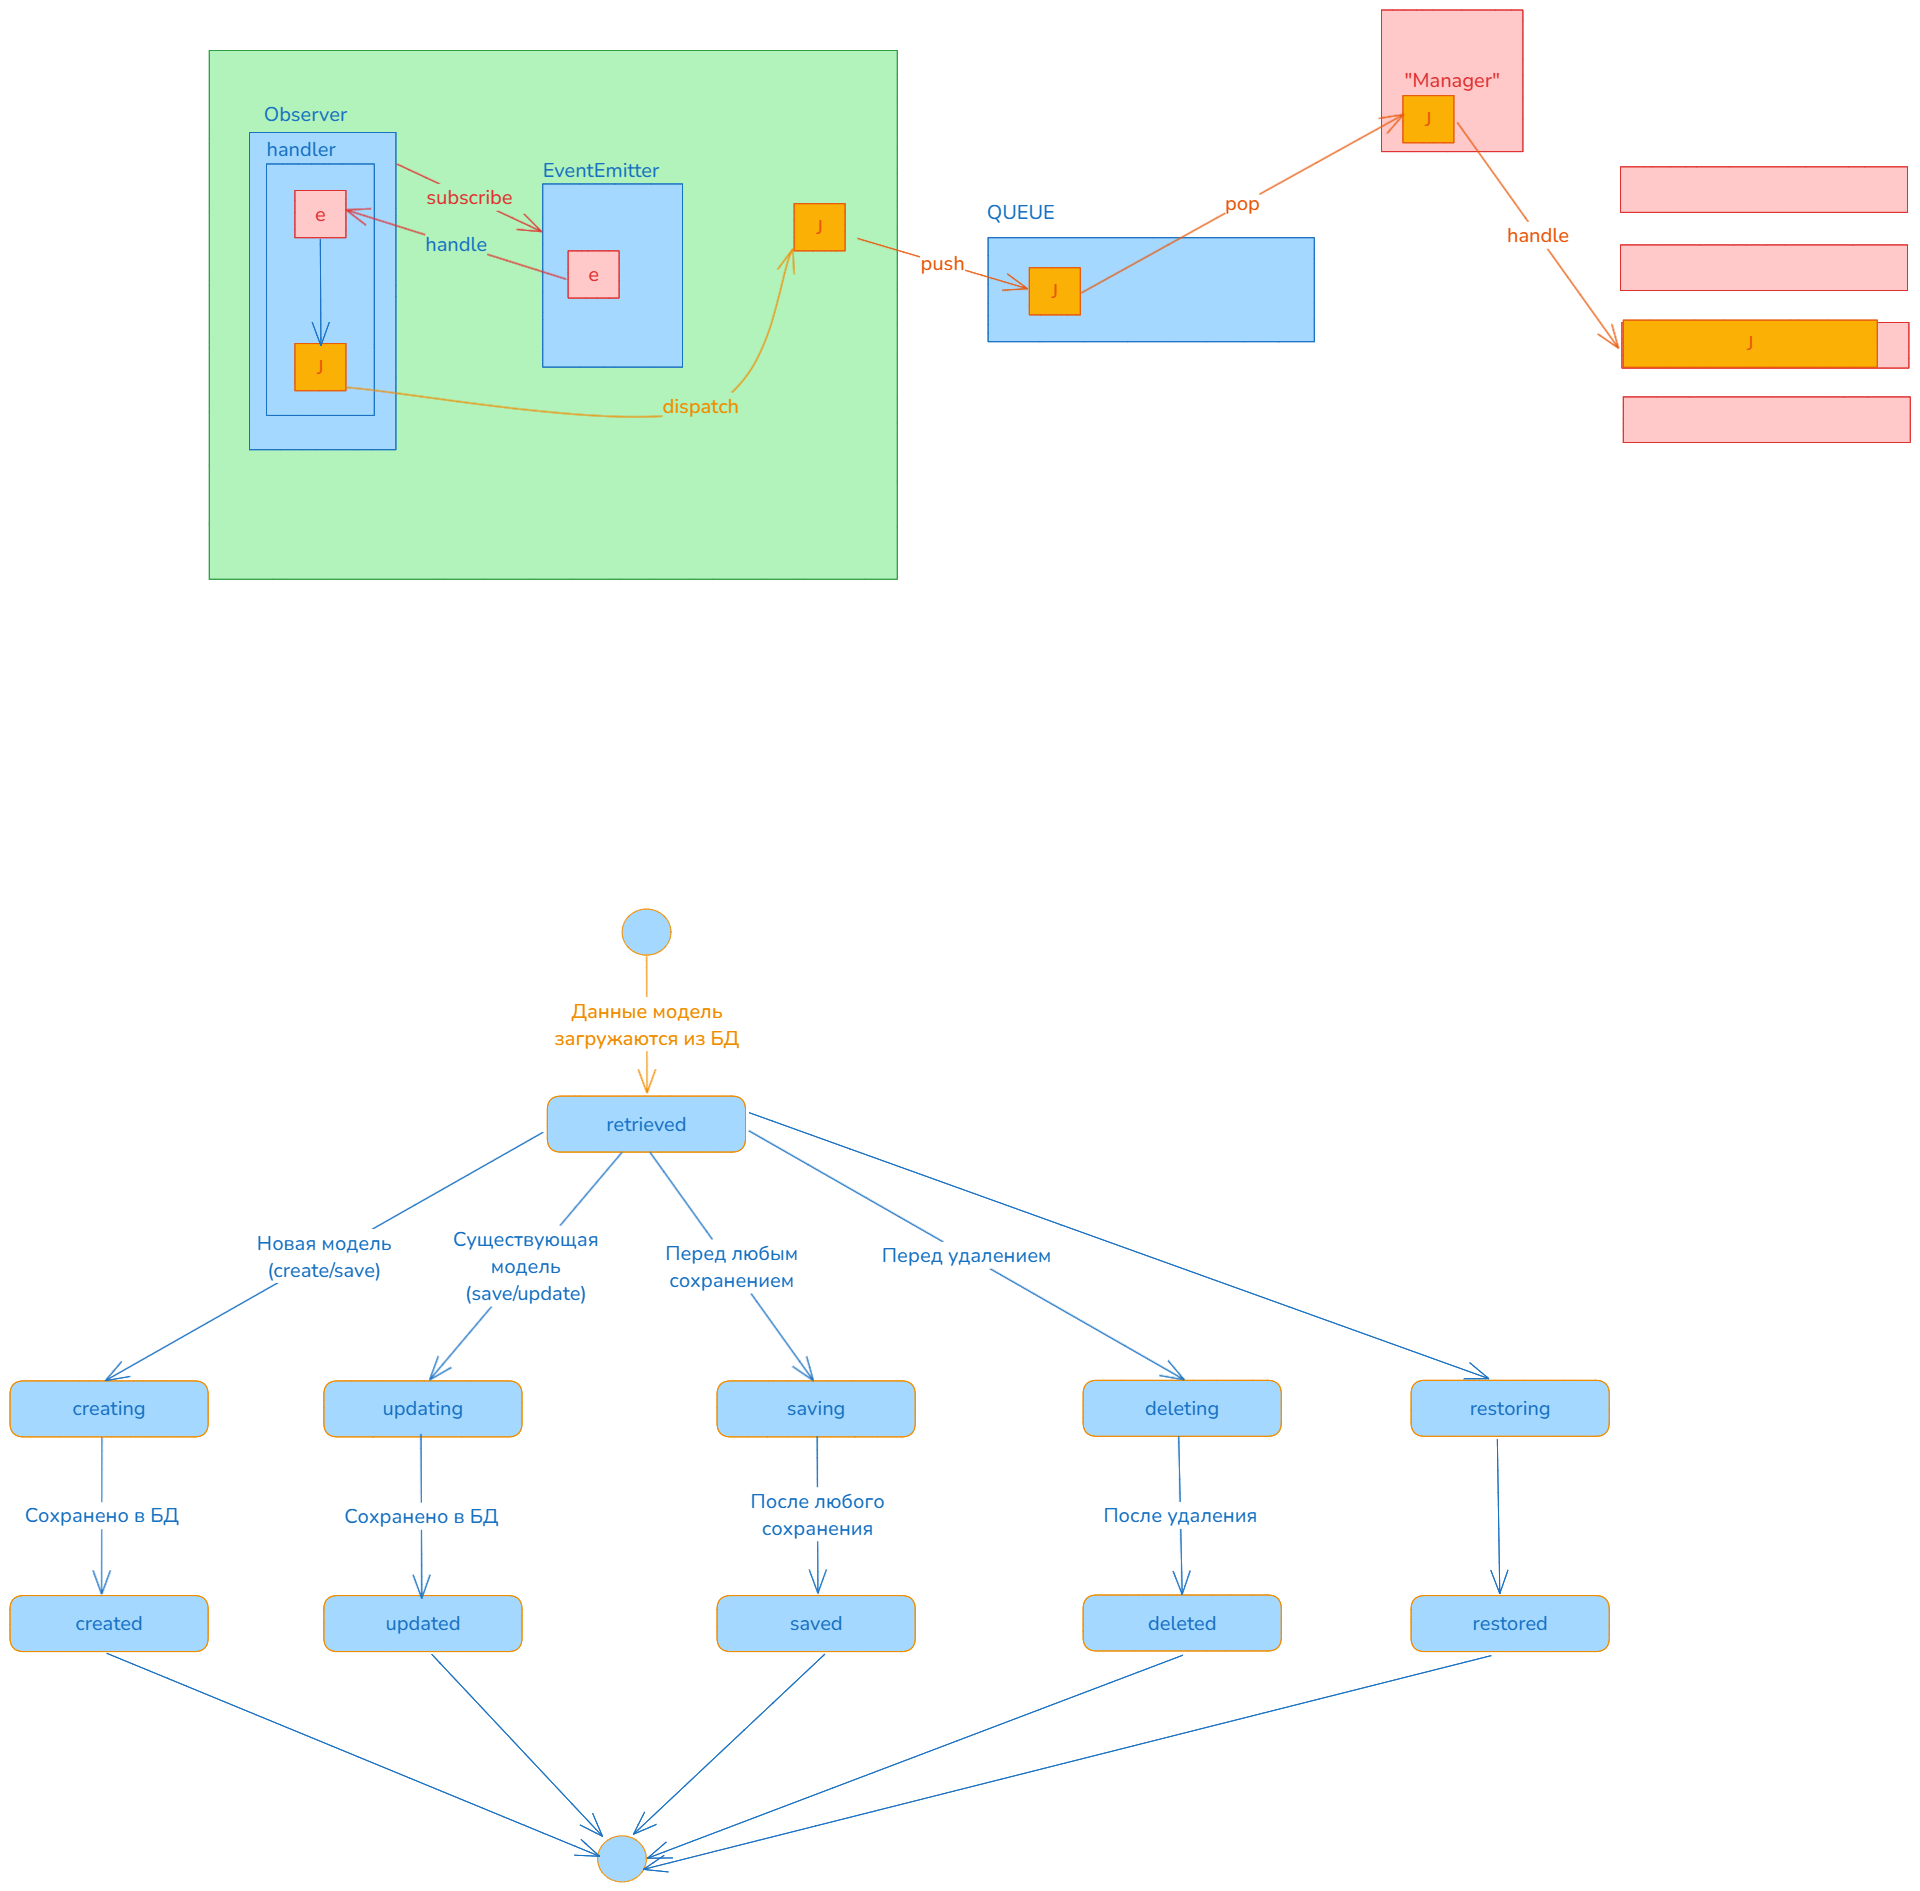
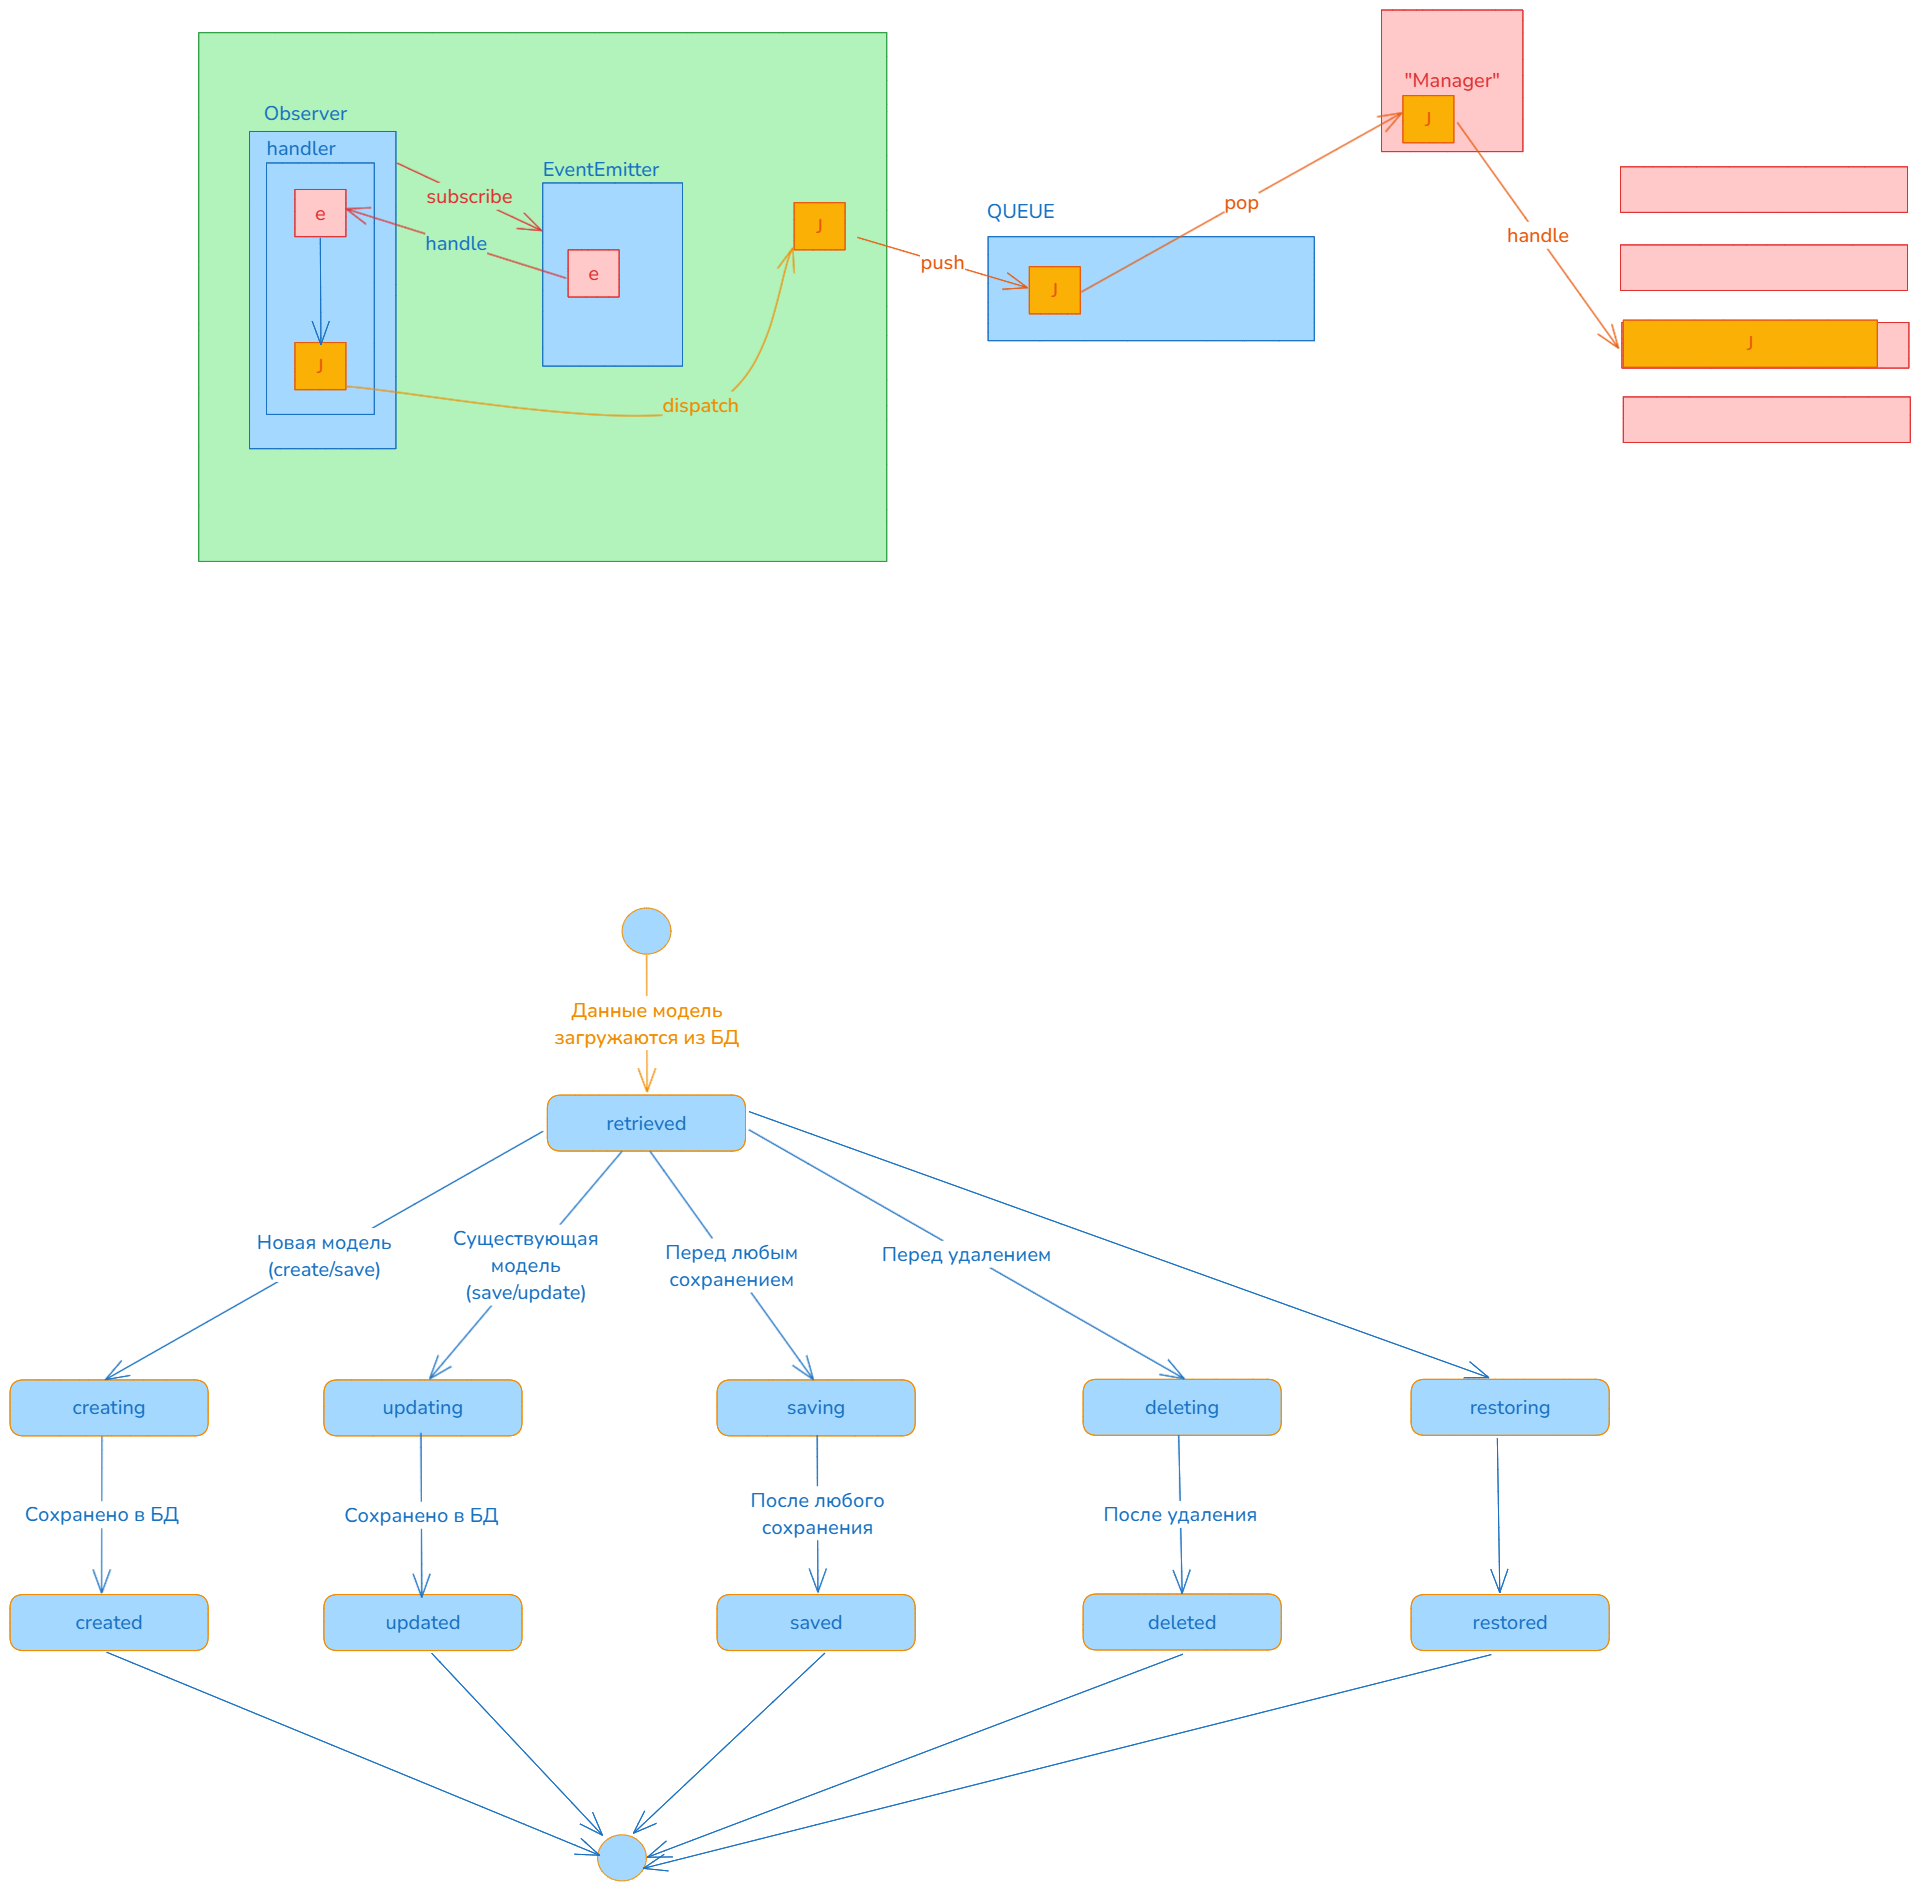
add:jobs

diff --git a/app/Mail/WelcomeMail.php b/app/Mail/WelcomeMail.php
@@ -1,0 +1,54 @@
+<?php
+
+namespace App\Mail;
+
+use App\Models\User;
+use Illuminate\Bus\Queueable;
+use Illuminate\Contracts\Queue\ShouldQueue;
+use Illuminate\Mail\Mailable;
+use Illuminate\Mail\Mailables\Content;
+use Illuminate\Mail\Mailables\Envelope;
+use Illuminate\Queue\SerializesModels;
+
+class WelcomeMail extends Mailable
+{
+    use Queueable, SerializesModels;
+
+    public function __construct(
+        public User $user
+    )
+    {}
+
+    /**
+     * Get the message envelope.
+     */
+    public function envelope(): Envelope
+    {
+        return new Envelope(
+            subject: 'Добро пожаловать в систему!',
+        );
+    }
+
+    /**
+     * Get the message content definition.
+     */
+    public function content(): Content
+    {
+        return new Content(
+            view: 'emails.welcome',
+            with: [
+                'userName' => $this->user->name,
+            ]
+        );
+    }
+
+    /**
+     * Get the attachments for the message.
+     *
+     * @return array<int, \Illuminate\Mail\Mailables\Attachment>
+     */
+    public function attachments(): array
+    {
+        return [];
+    }
+}

diff --git a/app/Jobs/SendWelcomeEmailJob.php b/app/Jobs/SendWelcomeEmailJob.php
@@ -1,0 +1,28 @@
+<?php
+
+namespace App\Jobs;
+
+use App\Mail\WelcomeMail;
+use App\Models\User;
+use Illuminate\Contracts\Queue\ShouldQueue;
+use Illuminate\Foundation\Queue\Queueable;
+use Illuminate\Support\Facades\Mail;
+
+class SendWelcomeEmailJob implements ShouldQueue
+{
+    use Queueable;
+
+    public int $tries = 3;
+    public array $backoff = [10, 20];
+
+    public function __construct(
+        public User $user
+    )
+    {}
+
+    public function handle(): void
+    {
+        Mail::to($this->user->email)
+            ->send(new WelcomeMail($this->user));
+    }
+}

diff --git a/resources/views/emails/welcome.blade.php b/resources/views/emails/welcome.blade.php
@@ -1,0 +1,12 @@
+<!doctype html>
+<html lang="en">
+<head>
+    <title>Добро пожаловать!</title>
+</head>
+<body>
+
+    <h1>Привет, {{ $userName }}!</h1>
+    <p>Добро пожаловать!</p>
+
+</body>
+</html>

diff --git a/app/Http/Controllers/AuthController.php b/app/Http/Controllers/AuthController.php
@@ -2,6 +2,7 @@
 
 namespace App\Http\Controllers;
 
+use App\Jobs\SendWelcomeEmailJob;
 use App\Models\User;
 use Illuminate\Http\Request;
 use Illuminate\Support\Facades\Auth;
@@ -53,6 +54,8 @@ class AuthController extends Controller
 
         Auth::login($user);
         $request->session()->regenerate();
+
+        SendWelcomeEmailJob::dispatch($user);
 
         return redirect()->route('home');
     }